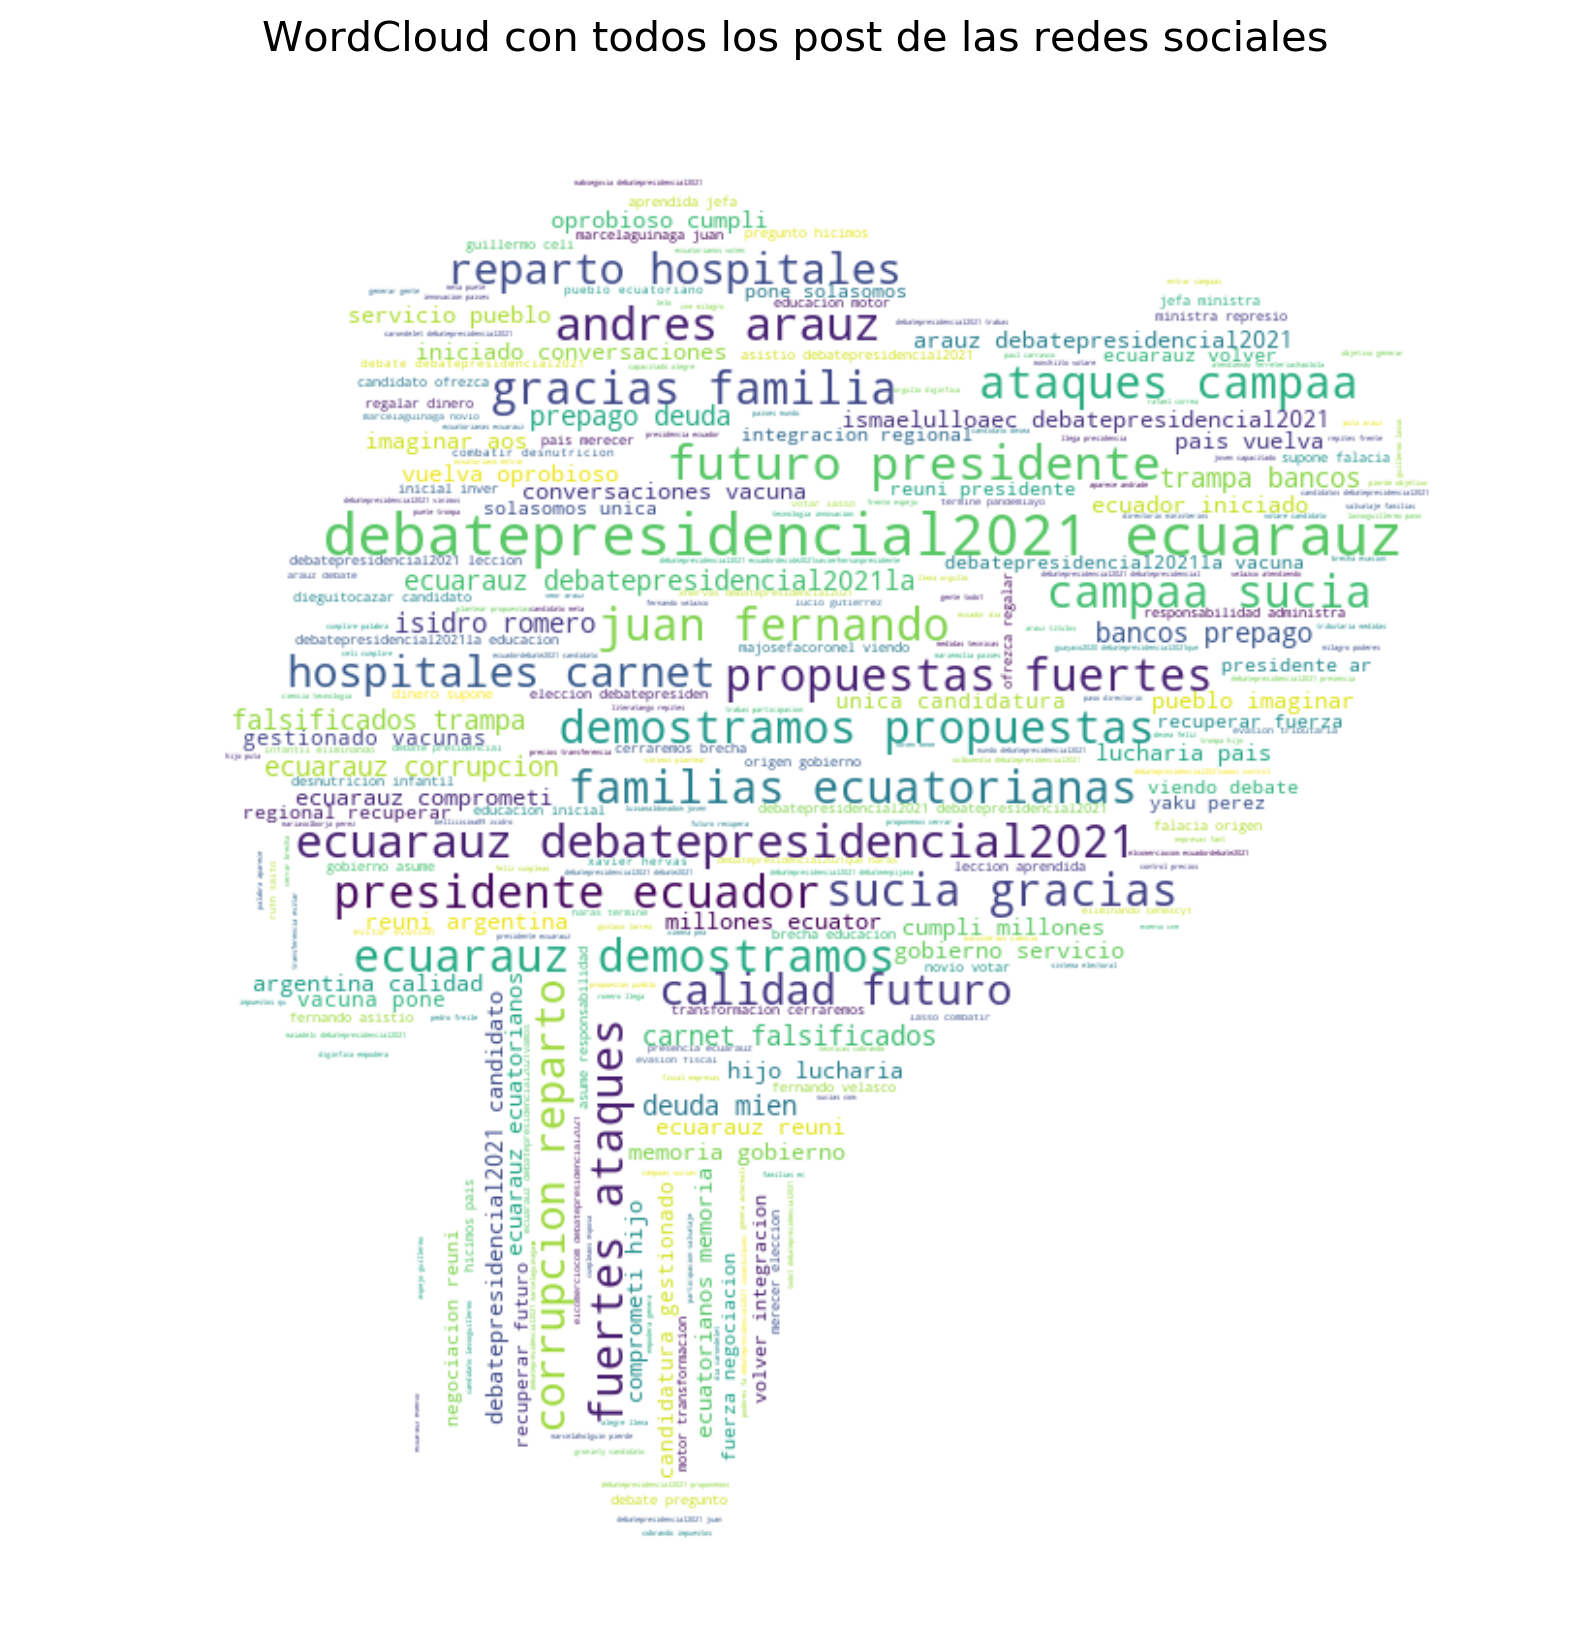
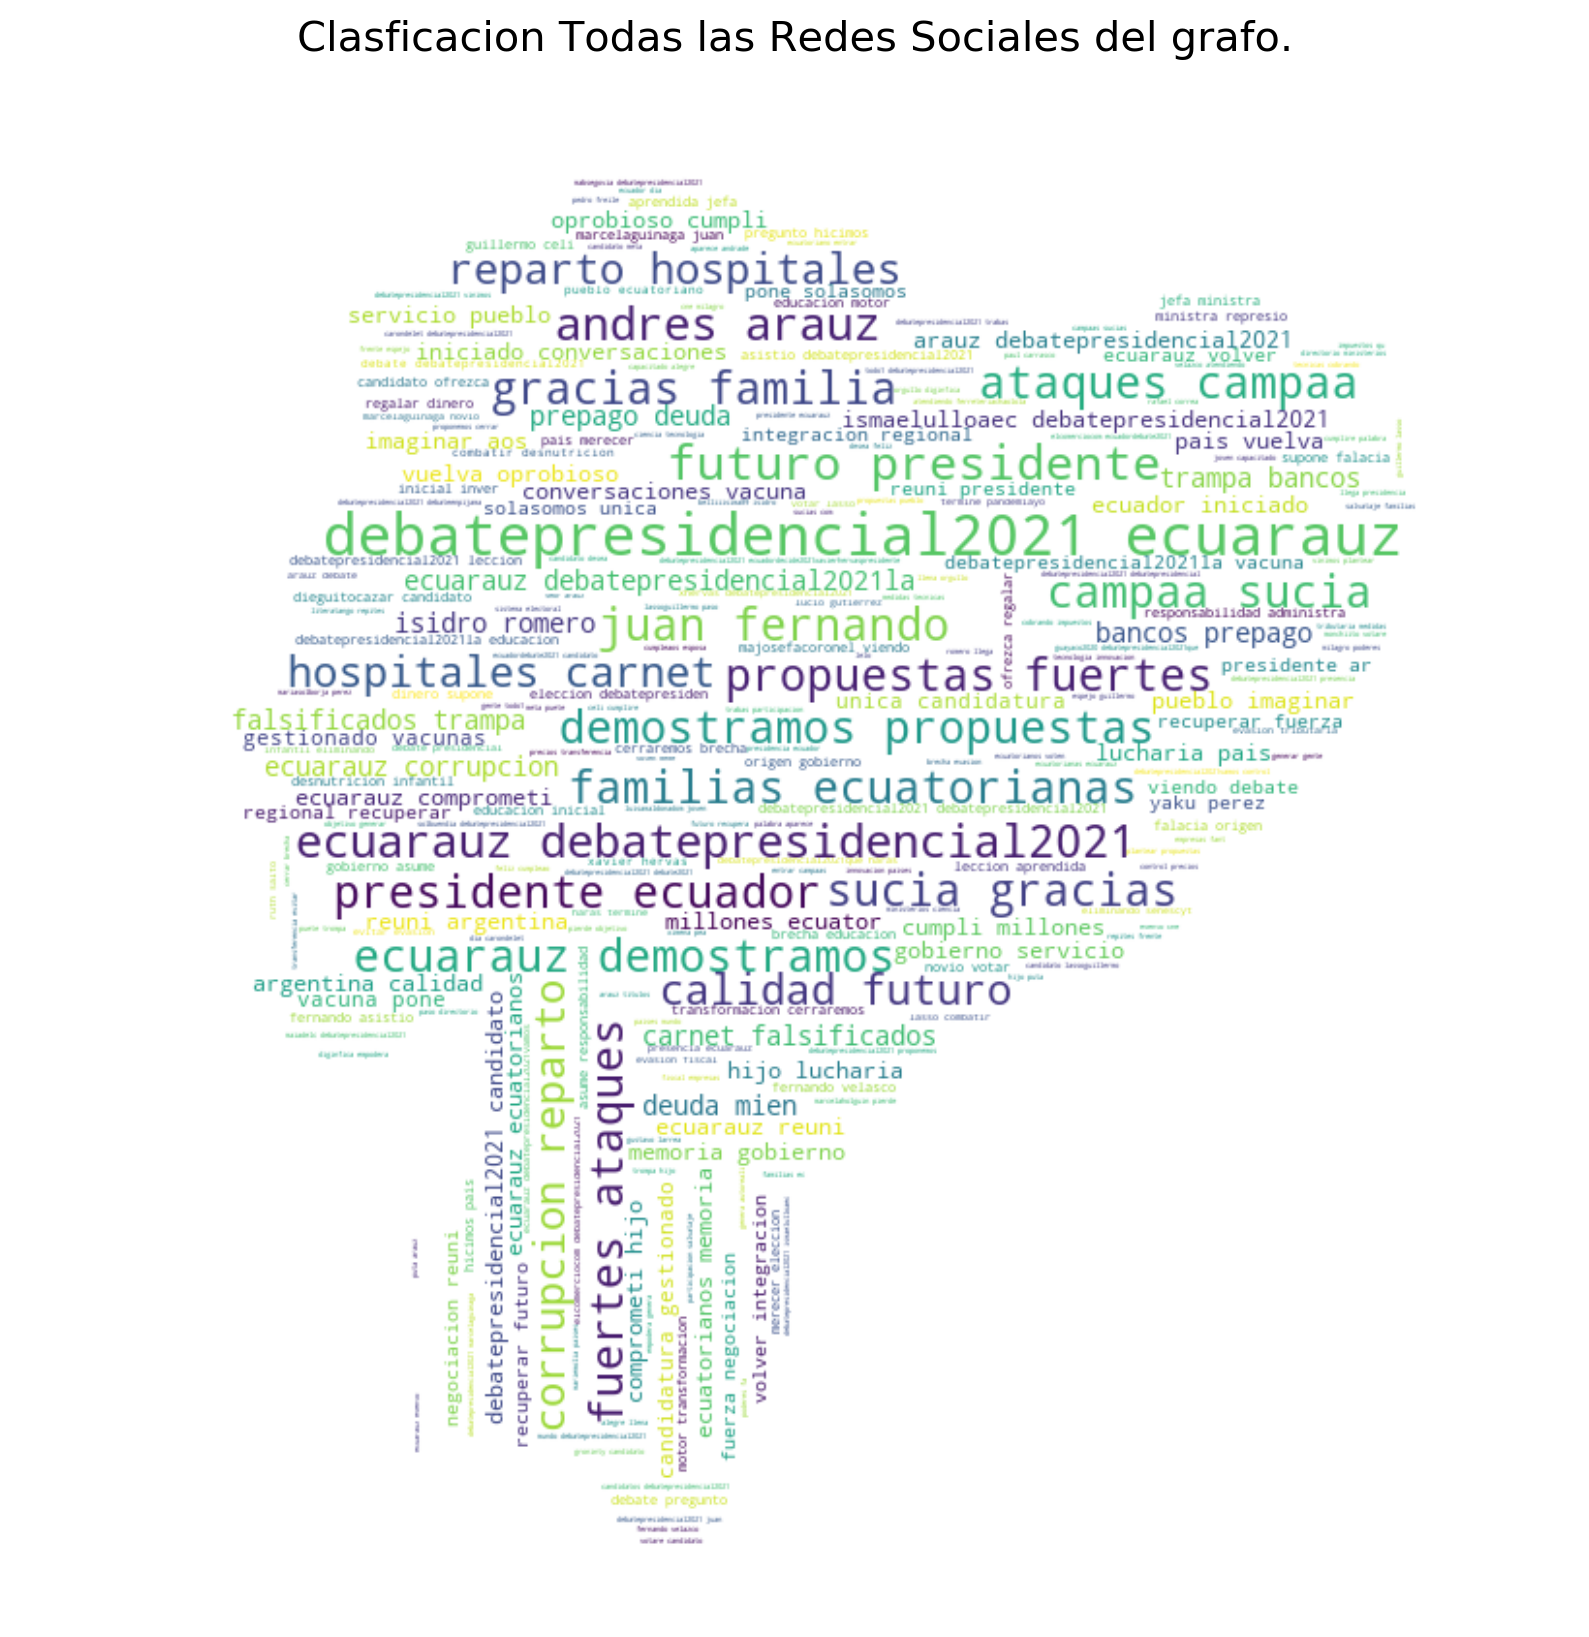
final

diff --git a/analysis/analysis_twitter.py b/analysis/analysis_twitter.py
@@ -82,4 +82,4 @@ bar_plot(analysis['top_mencions'], 'Top 10 de los Mentions mas frecuentes - Twit
 bar_plot(analysis['mean_tweet_per_hour'], 'Cantidad promedio de Tweets por hora - Twitter', 'Frecuencia')
 bar_plot(analysis['mean_tweet_per_day'], 'Cantidad de Tweets por Dia - Twitter', 'Frecuencia')
 pie_sentiment_analysis(analysis['sentiments'],'Análisis de Sentimientos de Tweets sobre Arauz')
-get_wordcloud([df.texto,df_fb.comentario,df_ig.texto], 'Twitter 2')
+get_wordcloud([df.texto,df_fb.comentario,df_ig.texto], 'Todas las Redes Sociales')
